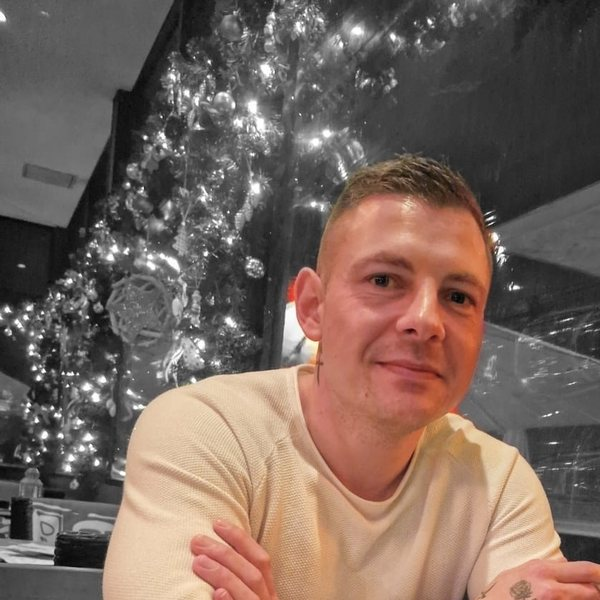
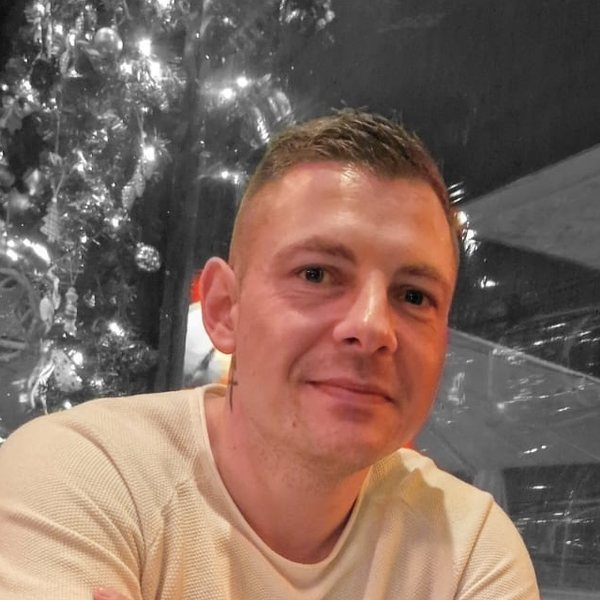
Rubrik Schule, rundes kleines Foto, dezente dunkle Akzente
Claude-Session: https://claude.ai/code/session_01R5GTTSP8KMEfSEJm5Pr5s1

diff --git a/blog.html b/blog.html
@@ -28,7 +28,7 @@
 
 <section>
   <div class="wrap">
-    <div class="chips reveal"><button class="chip" data-filter="alle" aria-pressed="true">Alle</button><button class="chip" data-filter="Alltag" aria-pressed="false">Alltag</button><button class="chip" data-filter="Digital lernen" aria-pressed="false">Digital lernen</button><button class="chip" data-filter="Wissenschaft" aria-pressed="false">Wissenschaft</button><button class="chip" data-filter="Demenz" aria-pressed="false">Demenz</button><button class="chip" data-filter="Berufsbild" aria-pressed="false">Berufsbild</button><button class="chip" data-filter="Azubi Hilfe" aria-pressed="false">Azubi Hilfe</button></div>
+    <div class="chips reveal"><button class="chip" data-filter="alle" aria-pressed="true">Alle</button><button class="chip" data-filter="Alltag" aria-pressed="false">Alltag</button><button class="chip" data-filter="Digital lernen" aria-pressed="false">Digital lernen</button><button class="chip" data-filter="Wissenschaft" aria-pressed="false">Wissenschaft</button><button class="chip" data-filter="Demenz" aria-pressed="false">Demenz</button><button class="chip" data-filter="Berufsbild" aria-pressed="false">Berufsbild</button><button class="chip" data-filter="Azubi Hilfe" aria-pressed="false">Azubi Hilfe</button><button class="chip" data-filter="Schule" aria-pressed="false">Schule</button></div>
     <div class="grid">
 <a class="card post-card reveal" href="beitrag-willkommen.html" data-rubrik="Alltag">
   <span class="tag">Alltag</span>
@@ -101,6 +101,24 @@
   <span class="tag grey">Berufsbild</span>
   <h3>Nach der Ausbildung</h3>
   <p>Studium, Weiterbildung und welche Türen offen stehen.</p>
+  <p class="meta">Kommt bald</p>
+</div>
+<div class="card post-card soon reveal" data-rubrik="Schule">
+  <span class="tag grey">Schule</span>
+  <h3>Ein Schultag in der Pflegeausbildung</h3>
+  <p>Wie ein Tag in der Schule abläuft und was ich daraus mitnehme.</p>
+  <p class="meta">Kommt bald</p>
+</div>
+<div class="card post-card soon reveal" data-rubrik="Schule">
+  <span class="tag grey">Schule</span>
+  <h3>Lernen für Klausuren, digital organisiert</h3>
+  <p>Meine Methode, Unterlagen zu ordnen und Wissen zu festigen.</p>
+  <p class="meta">Kommt bald</p>
+</div>
+<div class="card post-card soon reveal" data-rubrik="Schule">
+  <span class="tag grey">Schule</span>
+  <h3>Schule und Praxis verbinden</h3>
+  <p>Wie ich Gelerntes im Alltag anwende und Praxisaufträge angehe.</p>
   <p class="meta">Kommt bald</p>
 </div></div>
   </div>

diff --git a/style.css b/style.css
@@ -236,3 +236,36 @@ footer a:hover { color: var(--green); }
 .portrait { overflow: hidden; background: #dfe9d8; }
 .portrait img, .avatar img { width: 100%; height: 100%; object-fit: cover; object-position: 55% 30%; display: block; }
 @media (max-width: 820px) { .feature .visual.photo-card { aspect-ratio: 1 / 1; max-height: 380px; } }
+
+/* Rundes Foto auf der Startseite */
+.photo-round { position: relative; width: min(280px, 72%); margin: 0 auto 18px; }
+.photo-round img {
+  width: 100%; height: auto; aspect-ratio: 1 / 1; border-radius: 50%; object-fit: cover; object-position: 55% 30%; display: block;
+  border: 6px solid #fff; box-shadow: 0 14px 34px rgba(31, 43, 35, 0.22);
+}
+.photo-round .hello {
+  position: absolute; left: 50%; bottom: -16px; transform: translateX(-50%); white-space: nowrap;
+  font-size: 0.95rem; font-weight: 700; color: #fff; background: var(--ink); padding: 8px 18px; border-radius: 999px;
+}
+.portrait, .avatar { border: 4px solid #fff; box-shadow: 0 8px 22px rgba(31, 43, 35, 0.18); }
+
+/* Dezente dunkle Akzente */
+:root { --ink: #1f2b23; }
+.menu a[aria-current="page"] { background: var(--ink); }
+.chip[aria-pressed="true"] { background: var(--ink); border-color: var(--ink); }
+.tag { background: var(--ink); color: #fff; }
+.tag.grey { background: #e9e9e6; color: var(--grey); }
+.section-head h2::after {
+  content: ""; display: block; width: 44px; height: 3px; background: var(--ink); border-radius: 2px; margin: 16px auto 0;
+}
+.eyebrow::before {
+  content: ""; display: inline-block; width: 8px; height: 8px; border-radius: 50%; background: var(--ink);
+  margin-right: 10px; vertical-align: 1px;
+}
+.btn.ghost { border-color: var(--ink); color: var(--ink); }
+.btn.ghost:hover { background: var(--ink); color: #fff; }
+.callout { border-left-color: var(--ink); }
+.card { box-shadow: 0 1px 0 rgba(31, 43, 35, 0.04); }
+footer { background: var(--ink); color: #c6cfc8; border-top: 0; margin-top: 40px; }
+footer a { color: #e8eee9; }
+footer a:hover { color: #a9d196; }

diff --git a/index.html b/index.html
@@ -51,7 +51,7 @@
         <p>Warum ich diesen Blog schreibe, was dich hier erwartet und warum ich Menschen für die Pflege begeistern möchte.</p>
         <a class="btn" href="beitrag-willkommen.html">Beitrag lesen</a>
       </div>
-      <div class="visual photo-card reveal delay1"><img src="assets/steffen-gross.jpg" alt="Steffen, Auszubildender zum Pflegefachmann" width="900" height="1487" loading="lazy"><span class="hello">Hallo, ich bin Steffen</span></div>
+      <div class="photo-round reveal delay1"><img src="assets/steffen.jpg" alt="Steffen, Auszubildender zum Pflegefachmann" width="600" height="600" loading="lazy"><span class="hello">Hallo, ich bin Steffen</span></div>
     </div>
   </div>
 </section>
